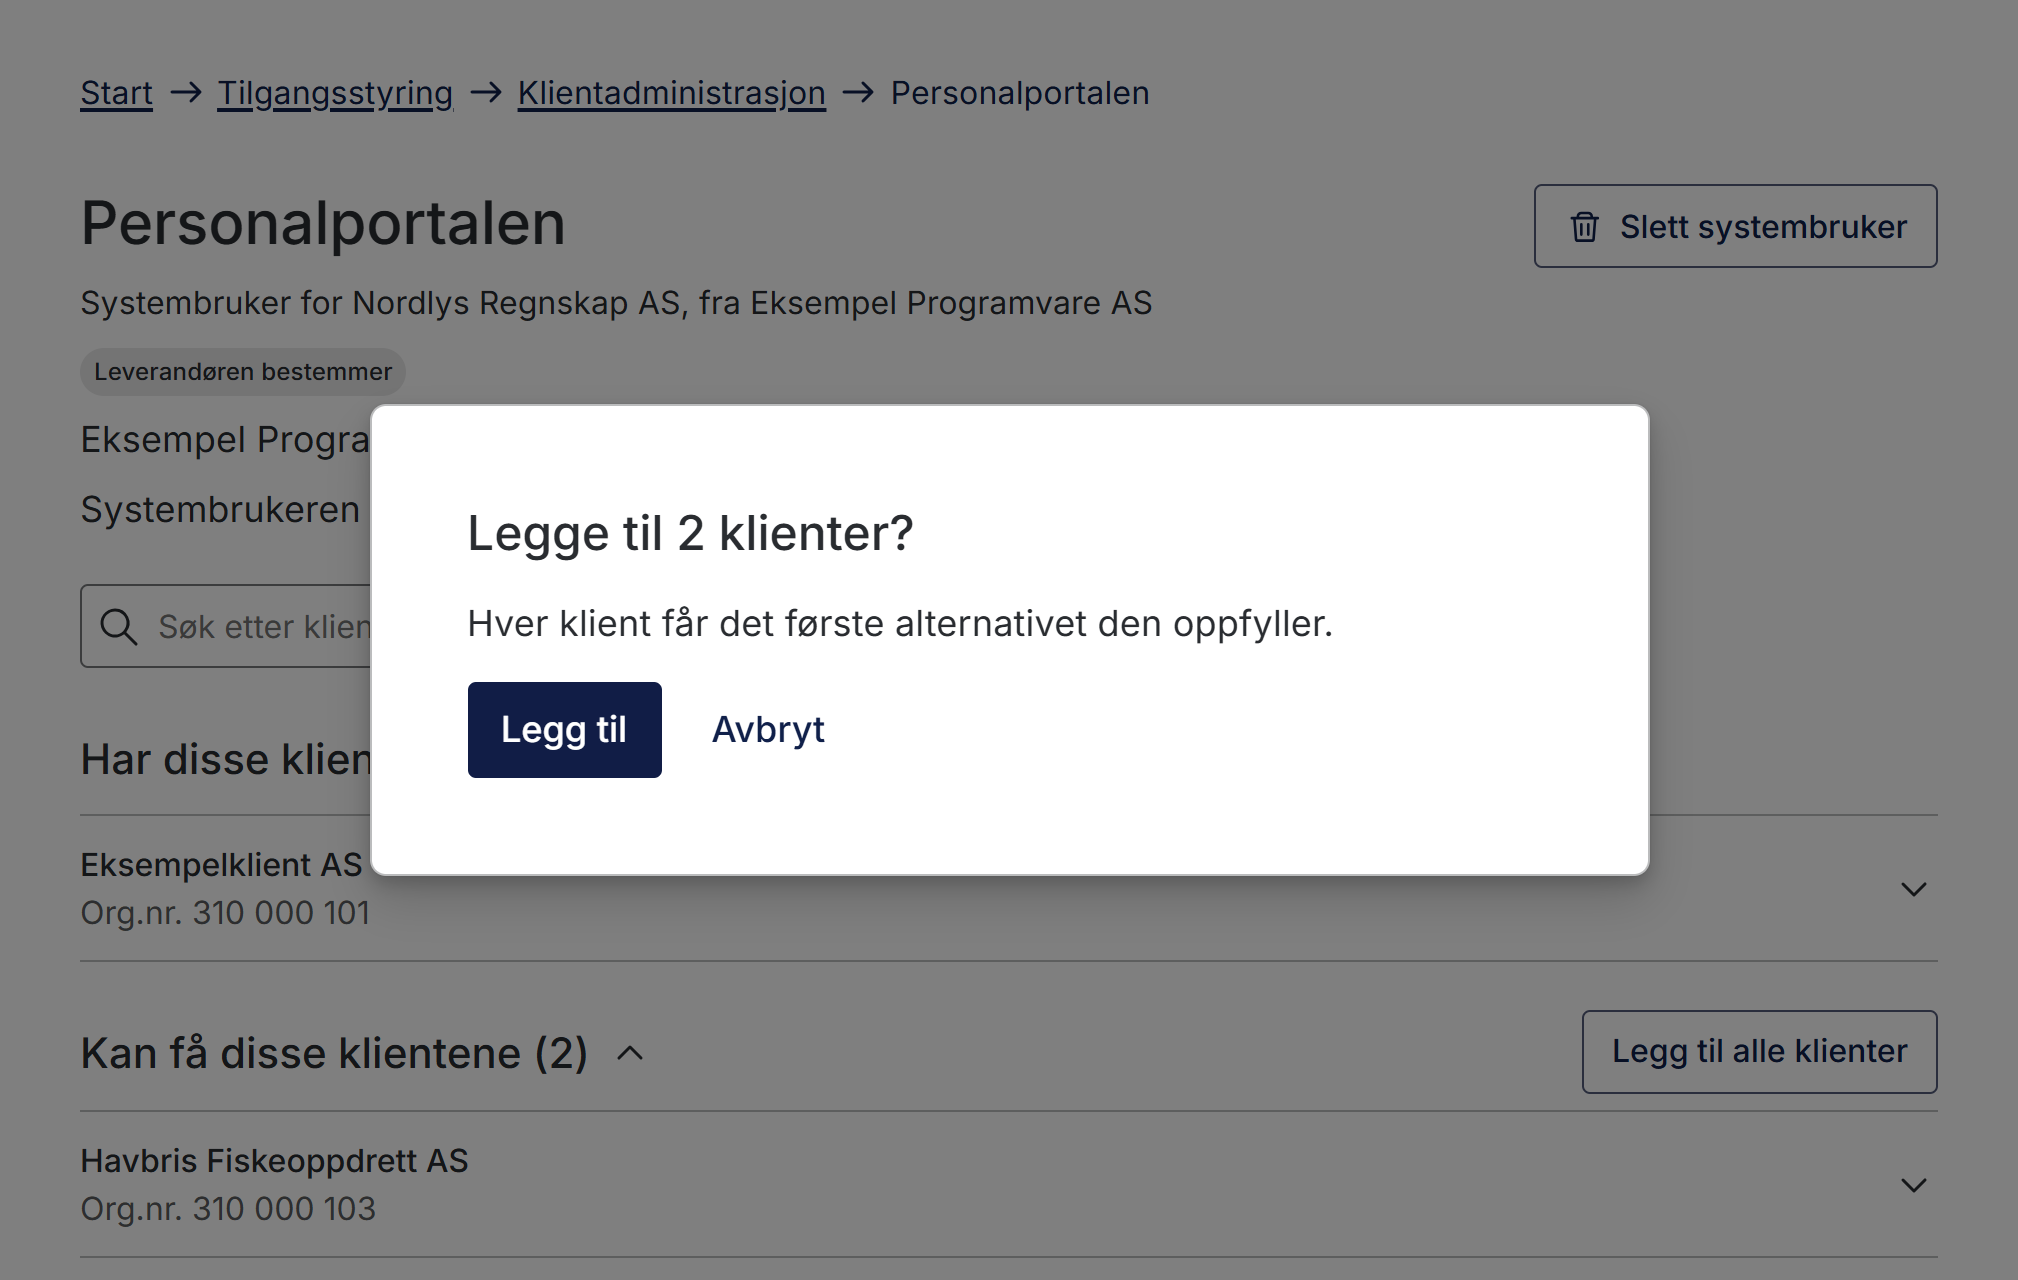
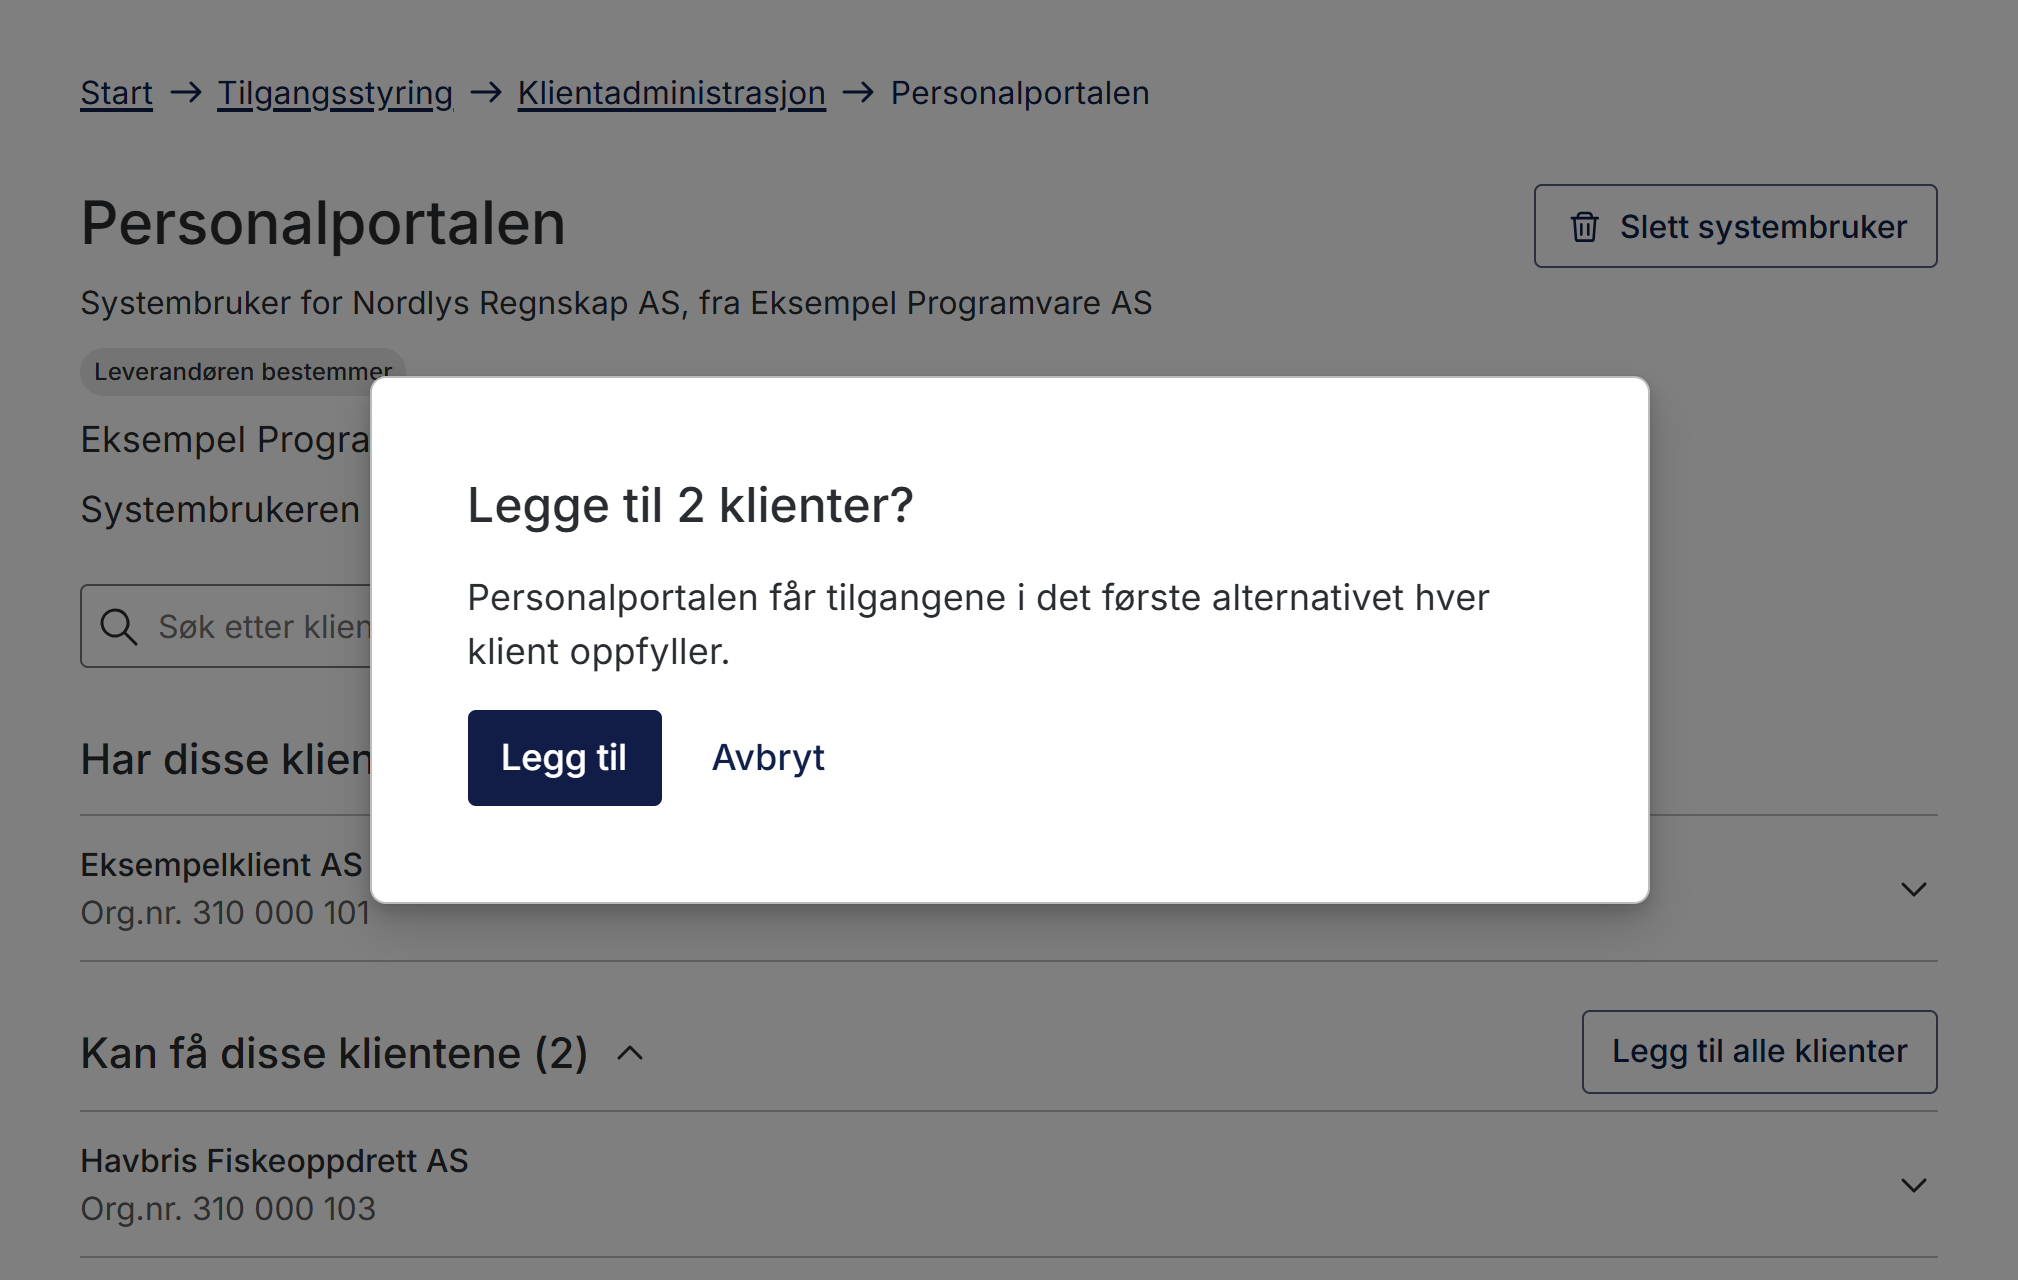
docs: fix direction in Legg til alle sketch of vendor deck
The confirmation now says the system user gets the access, not the client.

Changed region(s): [[0.1873, 0.375, 0.8117, 0.7188], [0.1873, 0.2812, 0.8117, 0.3438], [0.3434, 0.5625, 0.4058, 0.625]]

diff --git a/content/authorization/guides/system-vendor/system-user/endringer-for-leverandorer.nb.md b/content/authorization/guides/system-vendor/system-user/endringer-for-leverandorer.nb.md
@@ -439,7 +439,7 @@ Byrået åpner en klient i listen og ser hva klienten har gitt, og alle alternat
 
 **Legg til alle klienter** gir systembrukeren det første alternativet hver klient oppfyller, og ingenting annet. Siden spør først.
 
-<div style="max-width:720px"><a href="/images/authorization/systemuser/2026-11-09/ux-legg-til-alle.png" title="Åpne skissen i full størrelse" style="display:block"><img src="/images/authorization/systemuser/2026-11-09/ux-legg-til-alle.png" alt="Bekreftelsen Legge til 2 klienter? Hver klient får det første alternativet den oppfyller" style="width:100%;height:auto"></a></div>
+<div style="max-width:720px"><a href="/images/authorization/systemuser/2026-11-09/ux-legg-til-alle.png" title="Åpne skissen i full størrelse" style="display:block"><img src="/images/authorization/systemuser/2026-11-09/ux-legg-til-alle.png" alt="Bekreftelsen Legge til 2 klienter? Personalportalen får tilgangene i det første alternativet hver klient oppfyller" style="width:100%;height:auto"></a></div>
 
 *Skisse, ikke et designforslag. Klikk på bildet for full størrelse.*
 
